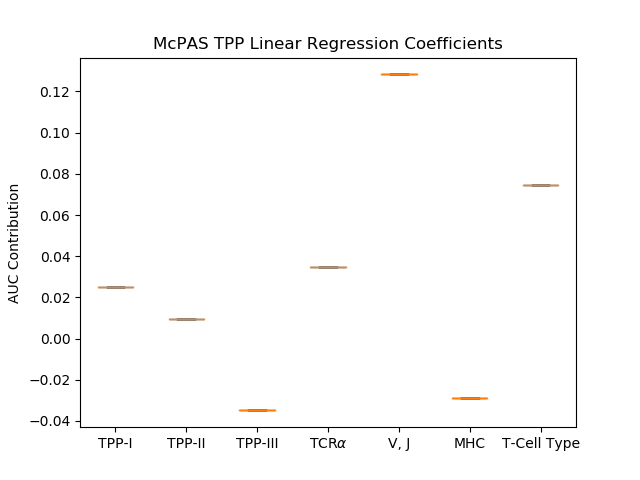
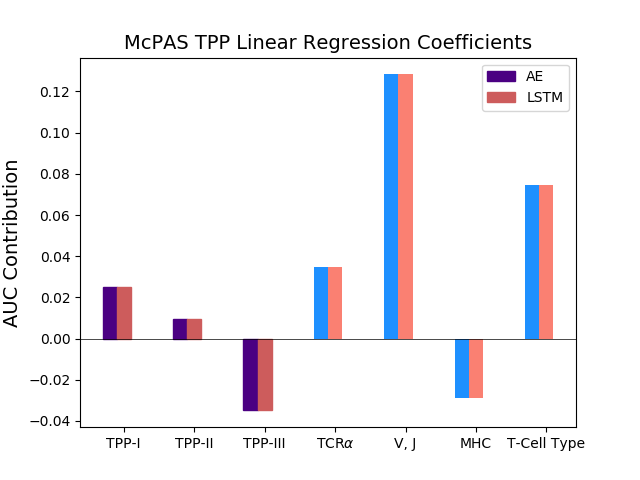
vdjdb spb results. plot updates

diff --git a/Evaluations.py b/Evaluations.py
@@ -215,7 +215,7 @@ def mps(hparams, model, datafiles, peptides):
         preds[:, pep_idx] = y_hat
     argmax = np.argmax(preds, axis=1)
     predicted_peps = [key_order[i] for i in argmax]
-    # todo return accuracy
+    # need to return accuracy
     return predicted_peps
 
 
@@ -250,7 +250,6 @@ def tpp_iii(model, datafiles, true_test):
 
 
 def protein_spb():
-    # todo
     pass
 
 
@@ -533,6 +532,17 @@ def spb_main(version, data_key):
         for pep in freq_peps:
             # print(pep + ' spb:', unfiltered_spb(model, datafiles, peptide=pep))
             spb_results.append(unfiltered_spb(model, datafiles, peptide=pep))
+    elif data_key == 'vdjdb':
+        freq_peps = ['IPSINVHHY', 'TPRVTGGGAM', 'NLVPMVATV', 'GLCTLVAML',
+                     'RAKFKQLL', 'YVLDHLIVV', 'GILGFVFTL', 'PKYVKQNTLKLAT',
+                     'CINGVCWTV', 'KLVALGINAV', 'ATDALMTGY', 'RPRGEVRFL',
+                     'LLWNGPMAV', 'GTSGSPIVNR', 'GTSGSPIINR', 'KAFSPEVIPMF',
+                     'TPQDLNTML', 'EIYKRWII', 'KRWIILGLNK', 'FRDYVDRFYKTLRAEQASQE',
+                     'GPGHKARVL', 'FLKEKGGL']
+        print(freq_peps)
+        for pep in freq_peps:
+            # print(pep + ' spb:', unfiltered_spb(model, datafiles, peptide=pep))
+            spb_results.append(unfiltered_spb(model, datafiles, peptide=pep))
     return spb_results
 
 
@@ -572,7 +582,7 @@ def tpp_main(version):
     test_pickle = 'Samples/' + model.dataset + '_test_samples.pickle'
     datafiles = train_pickle, test_pickle
     true_test = efficient_true_new_pairs(hparams, datafiles)
-    TPP
+    # TPP
     print('tpp i:', tpp_i(model, datafiles, true_test))
     print('tpp ii:', tpp_ii(model, datafiles, true_test))
     print('tpp iii:', tpp_iii(model, datafiles, true_test))
@@ -581,14 +591,34 @@ def tpp_main(version):
 
 if __name__ == '__main__':
     # version = sys.argv[1]
-    # freq_peps = Sampler.frequent_peptides('data/McPAS-TCR.csv', 'mcpas', 20)
-    # spb_table = pd.DataFrame()
-    # for version in ['1me', '1ml', '1mea', '1mla', '1meaj', '1mlaj',
-    #                 '1meajh', '1mlajh', '1meajht', '1mlajht']:
-    #     print(version)
-    #     spb_results = spb_main(version, data_key='mcpas')
-    #     print(spb_results)
-    #     spb_table[version] = spb_results
-    # spb_table.index = freq_peps
-    # spb_table.to_csv('plots/mcpas_spb_results.csv')
+    # key = 'vdjdb'
+    # if key == 'mcpas':
+    #     freq_peps = Sampler.frequent_peptides('data/McPAS-TCR.csv', 'mcpas', 20)
+    #     spb_table = pd.DataFrame()
+    #     for version in ['1me', '1ml', '1mea', '1mla', '1meaj', '1mlaj',
+    #                     '1meajh', '1mlajh', '1meajht', '1mlajht']:
+    #         print(version)
+    #         spb_results = spb_main(version, data_key='mcpas')
+    #         print(spb_results)
+    #         spb_table[version] = spb_results
+    #     spb_table.index = freq_peps
+    #     spb_table.to_csv('plots/mcpas_spb_results.csv')
+    # elif key == 'vdjdb':
+    #     freq_peps = ['IPSINVHHY', 'TPRVTGGGAM', 'NLVPMVATV', 'GLCTLVAML',
+    #                  'RAKFKQLL', 'YVLDHLIVV', 'GILGFVFTL', 'PKYVKQNTLKLAT',
+    #                  'CINGVCWTV', 'KLVALGINAV', 'ATDALMTGY', 'RPRGEVRFL',
+    #                  'LLWNGPMAV', 'GTSGSPIVNR', 'GTSGSPIINR', 'KAFSPEVIPMF',
+    #                  'TPQDLNTML', 'EIYKRWII', 'KRWIILGLNK', 'FRDYVDRFYKTLRAEQASQE',
+    #                  'GPGHKARVL', 'FLKEKGGL']
+    #     spb_table = pd.DataFrame()
+    #     for version in ['1fe', '1fl', '1fea', '1fla', '1feaj', '1flaj',
+    #                     '1feajh', '1flajh', '1feajht', '1flajht']:
+    #         print(version)
+    #         spb_results = spb_main(version, data_key='vdjdb')
+    #         print(spb_results)
+    #         spb_table[version] = spb_results
+    #     spb_table.index = freq_peps
+    #     spb_table.to_csv('plots/vdjdb_spb_results.csv')
     pass
+
+# todo stats on how many alpha vs alpha + beta we have for each peptide in spb tables

diff --git a/plots/plots.py b/plots/plots.py
@@ -190,18 +190,31 @@ def tpp_linear_regression_coefficients(results_file):
     reg_m_lstm = LinearRegression().fit(X, m_lstm_results)
     labels = ['TPP-I', 'TPP-II', 'TPP-III', 'TCR' + r'$\alpha$', 'V, J', 'MHC', 'T-Cell Type']
     assert len(labels) == len(reg_m_ae.coef_.reshape(-1, 1))
-    plot_data = np.concatenate((reg_m_ae.coef_.reshape(-1, 1),
-                                reg_m_lstm.coef_.reshape(-1, 1)), axis=1)
-    bplot = plt.boxplot(plot_data.T,
-                        vert=True,  # vertical box alignment
-                        patch_artist=True,  # fill with color
-                        labels=labels),
-    plt.title('McPAS TPP Linear Regression Coefficients')
-    plt.ylabel('AUC Contribution')
+    # plot_data = np.concatenate((reg_m_ae.coef_.reshape(-1, 1),
+    #                             reg_m_lstm.coef_.reshape(-1, 1)), axis=1)
+    # bplot = plt.boxplot(plot_data.T,
+    #                     vert=True,  # vertical box alignment
+    #                     patch_artist=True,  # fill with color
+    #                     labels=labels),
+    bars = plt.bar(range(len(labels)), reg_m_ae.coef_, width=0.2,
+            label='AE', color='dodgerblue')
+    for i in range(3):
+        bars[i].set_color('indigo')
+    bars = plt.bar([x+0.2 for x in range(len(labels))], reg_m_lstm.coef_,
+            width=0.2, label='LSTM', color='salmon')
+    for i in range(3):
+        bars[i].set_color('indianred')
+    plt.legend()
+    plt.xticks([x+0.2 for x in range(len(labels))], labels)
+    plt.axhline(0, color='black', lw=0.5)
+    plt.title('McPAS TPP Linear Regression Coefficients', fontdict={'fontsize': 14})
+    plt.ylabel('AUC Contribution', fontdict={'fontsize': 14})
     colors = ['lightblue'] * 3 + ['lightgreen'] * 4
-    print(bplot)
-    for patch, color in zip(bplot[0]['boxes'], colors):
-        patch.set_facecolor(color)
+    # print(bplot)
+    # for patch, color in zip(bplot[0]['boxes'], colors):
+    #     patch.set_facecolor(color)
+    print(reg_m_ae.coef_)
+    print(reg_m_lstm.coef_)
     plt.show()
 
 
@@ -209,5 +222,5 @@ if __name__ == '__main__':
     # mhc_type_comp_logos()
     # linear_regression_coefficients('tpp')
     # linear_regression_coefficients('spb')
-    spb_linear_regression_coefficients('mcpas_spb_results.csv')
-    # tpp_linear_regression_coefficients('tpp_results.csv')
+    # spb_linear_regression_coefficients('mcpas_spb_results.csv')
+    tpp_linear_regression_coefficients('tpp_results.csv')

diff --git a/Sampler.py b/Sampler.py
@@ -181,7 +181,7 @@ def sample():
 
     pass
 
-# todo sample united dataset
+#  sample united dataset ?
 
 # Notice the different negative sampling - 5 random pairs instead of 5 random TCRs per random peptide
 
